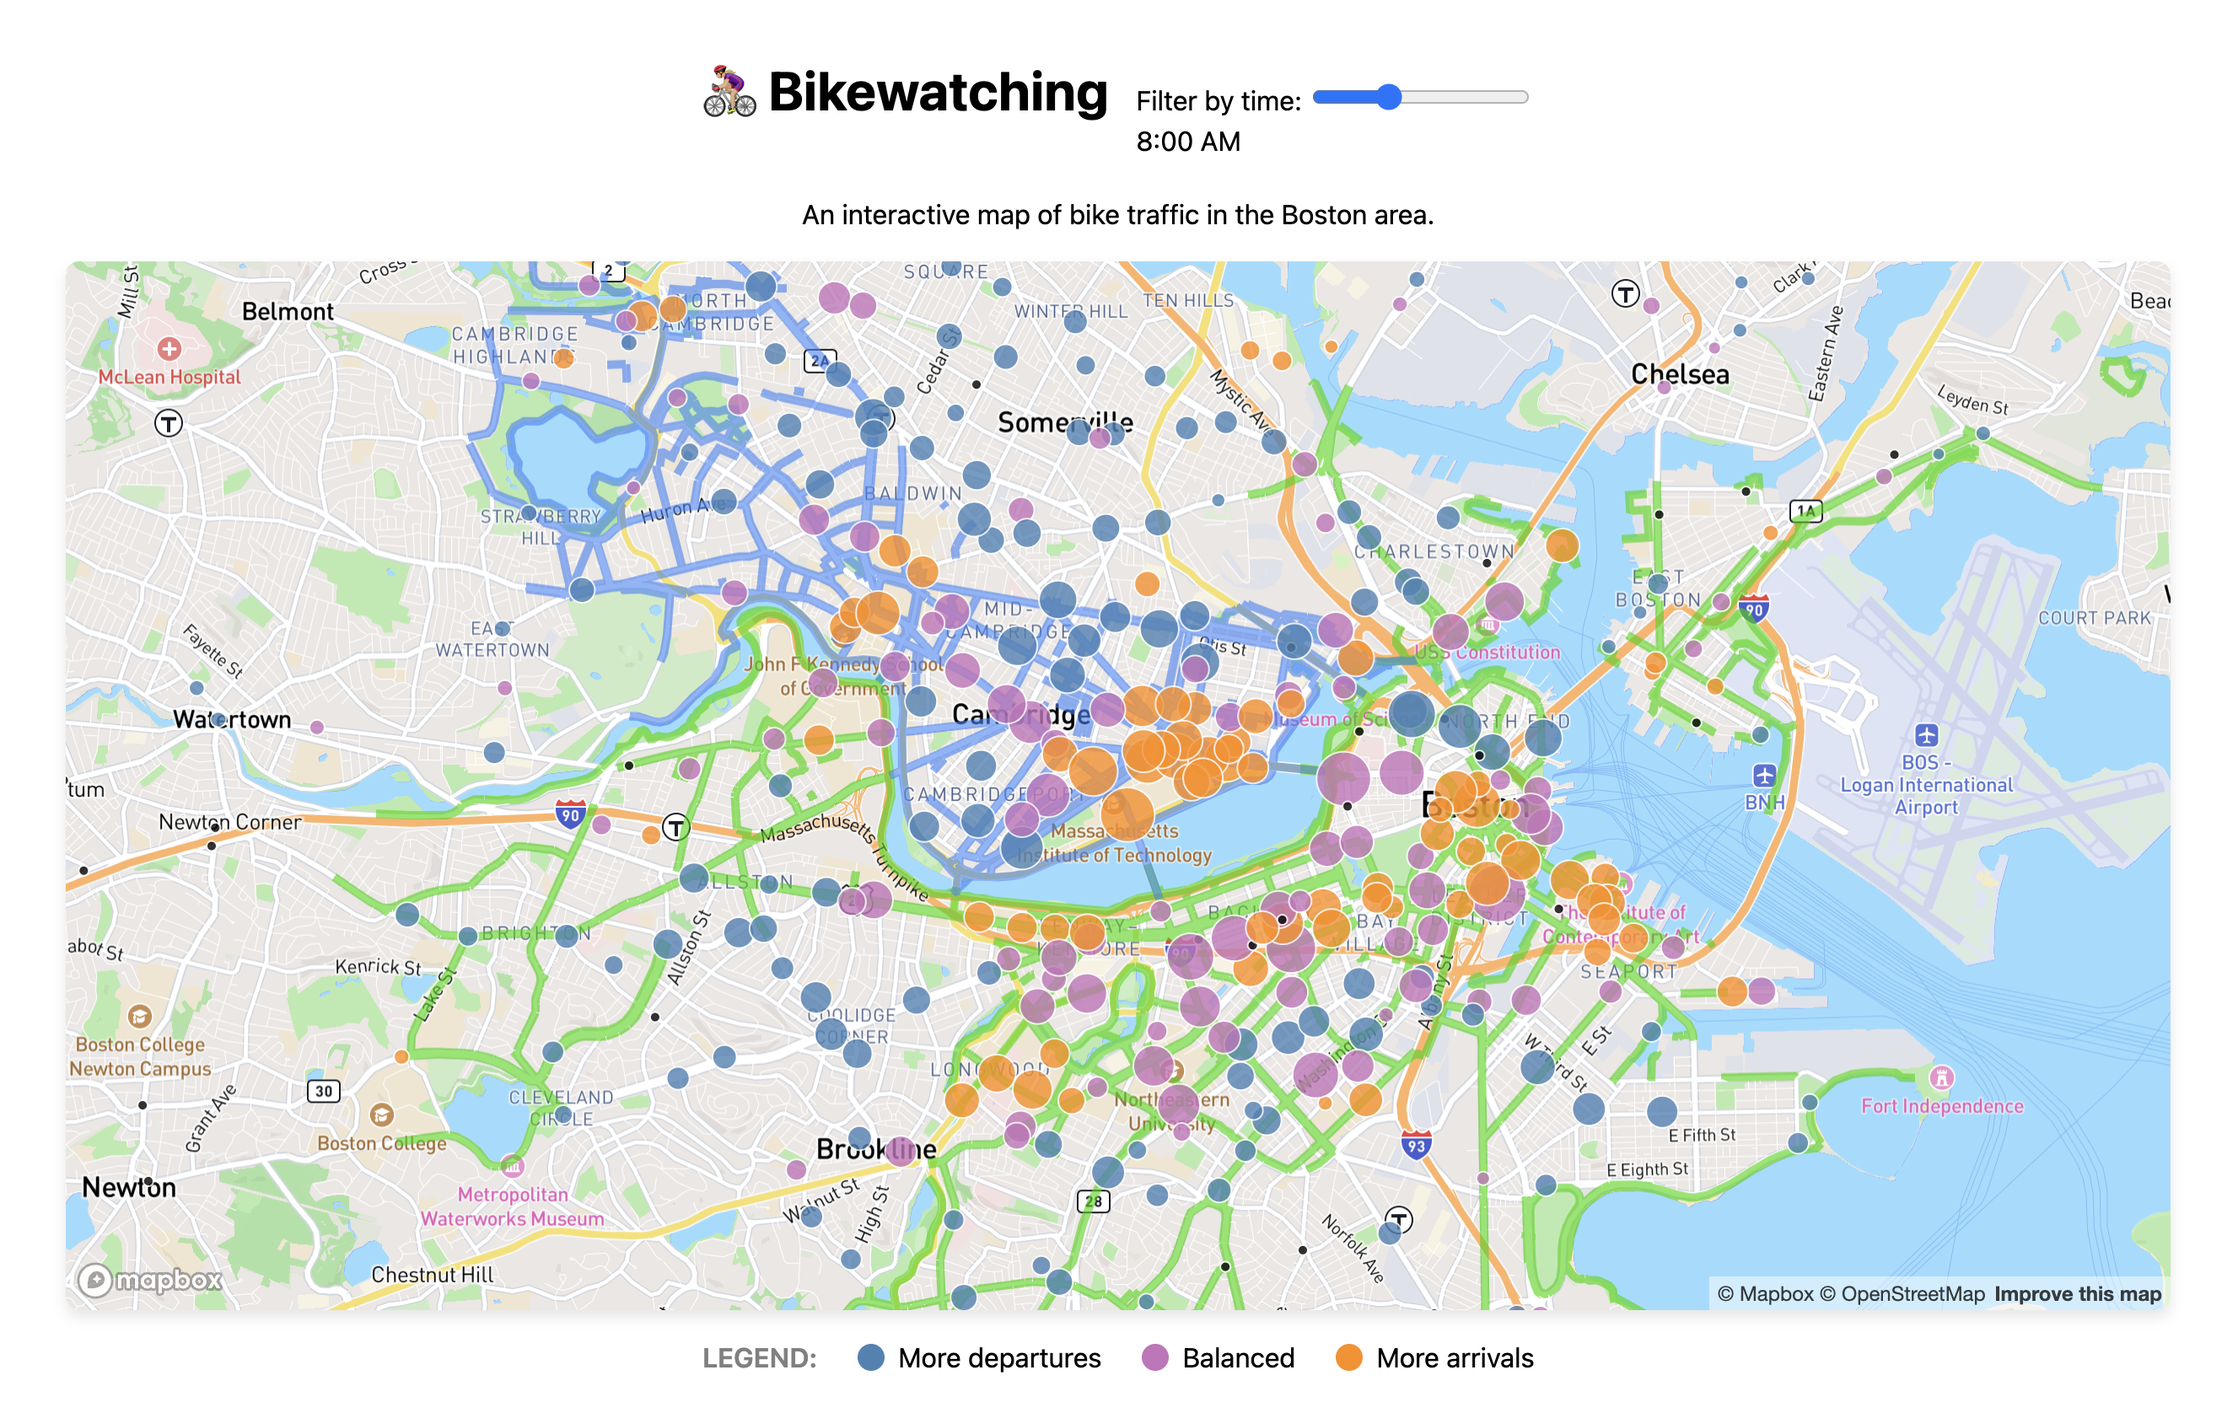
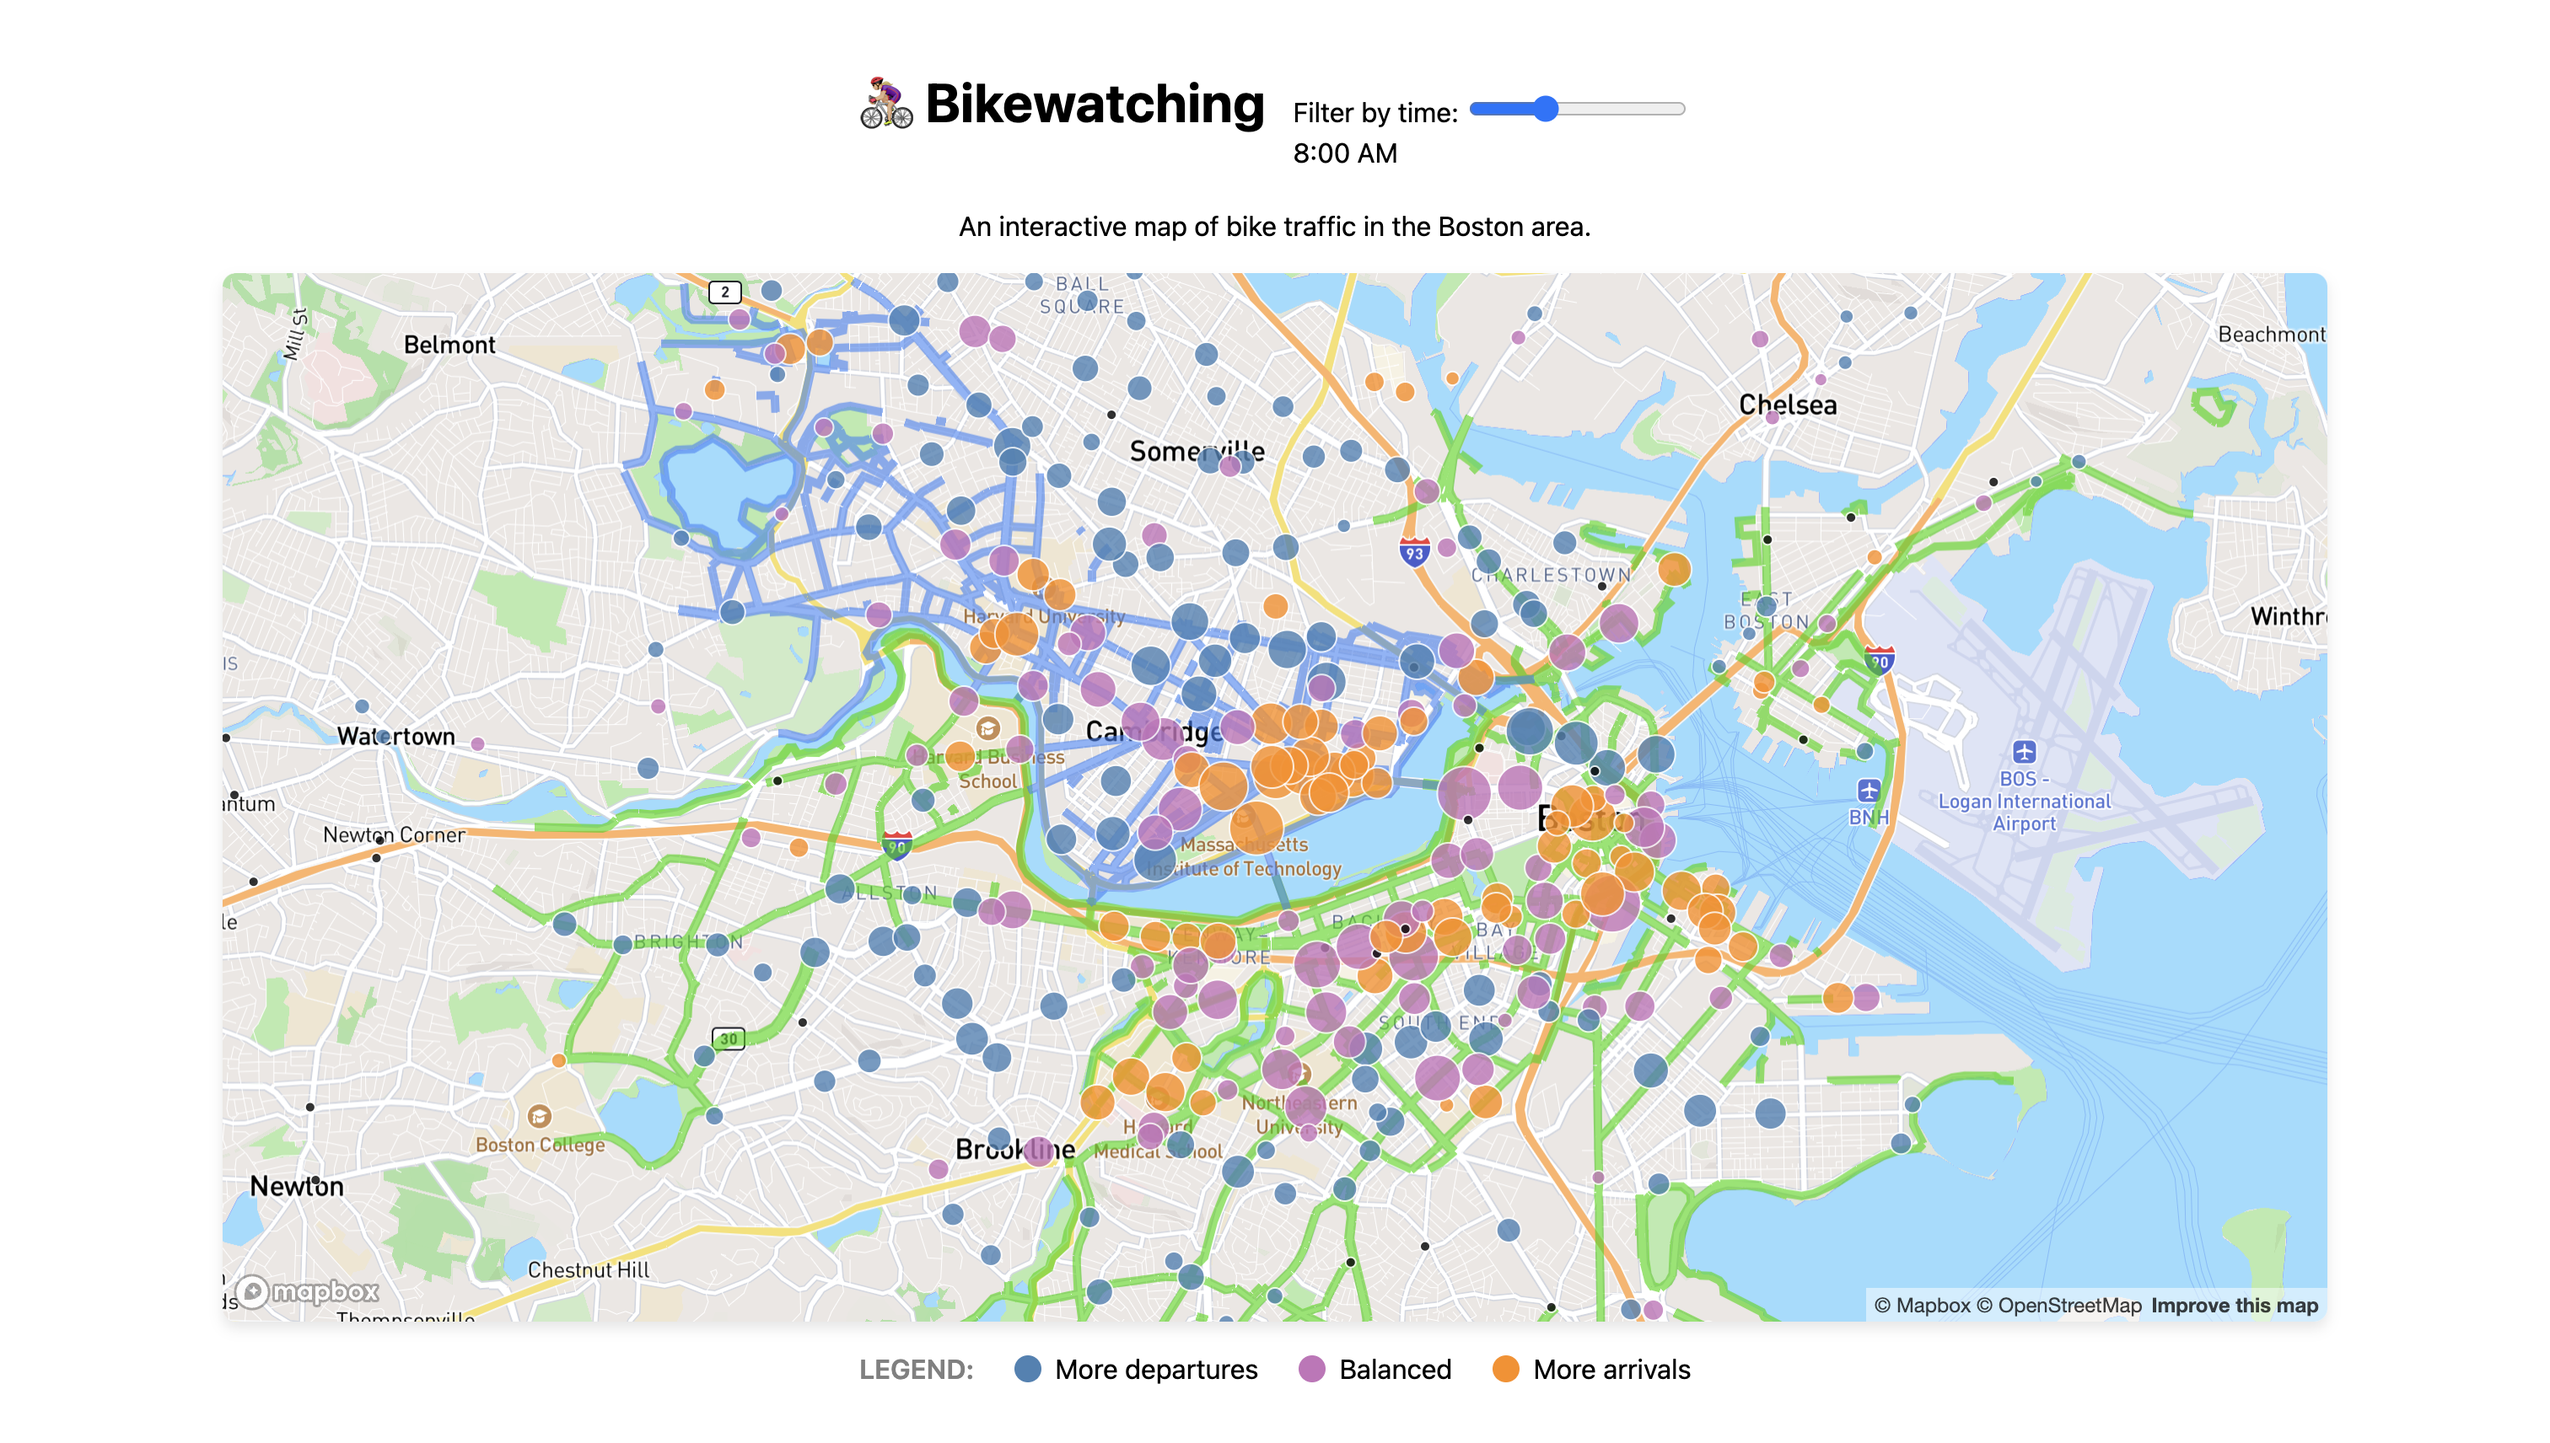
change image of bikewatching

diff --git a/style.css b/style.css
@@ -98,6 +98,13 @@ form button {
   grid-row: span 3;
 }
 
+.projects img {
+  width: 100%;
+  height: 180px;
+  object-fit: cover;
+  border-radius: 8px;
+}
+
 .projects h2 {
   margin: 0;
 }
